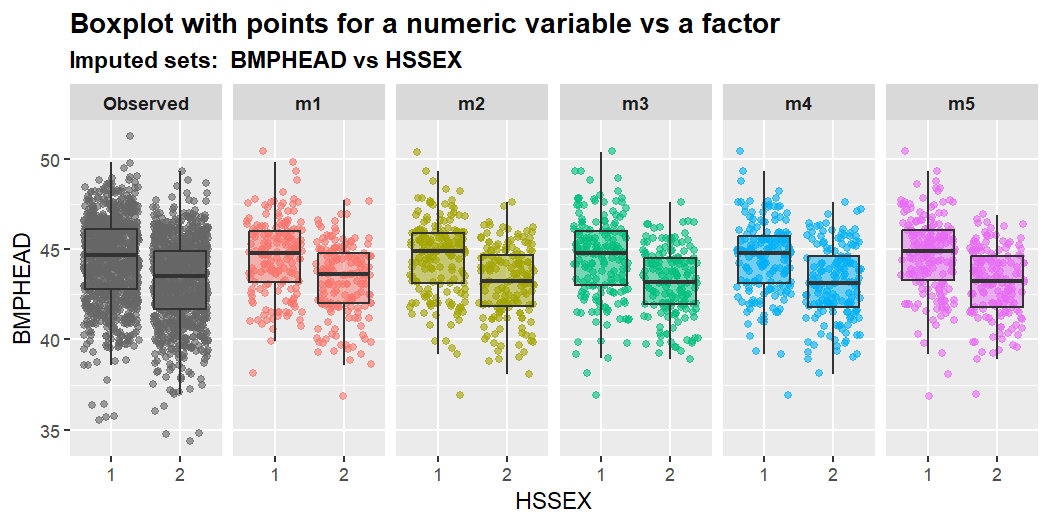
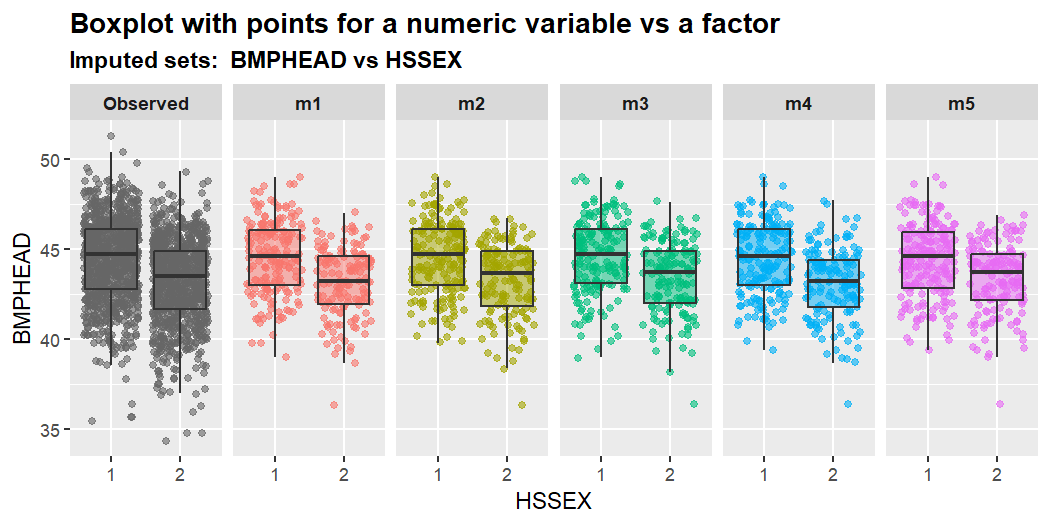
descritpion
add doi url

diff --git a/README.md b/README.md
@@ -17,7 +17,8 @@ imputation that utilizes XGBoost, subsampling and predictive mean
 matching. We have shown that our framework obtains less biased estimates
 and reflects appropriate imputation variability, while achieving high
 computational efficiency. For further information, please refer to our
-paper <https://arxiv.org/abs/2106.01574>.
+paper [Multiple Imputation Through
+XGBoost](https://www.tandfonline.com/doi/full/10.1080/10618600.2023.2252501).
 
 ## New updates
 
@@ -227,9 +228,9 @@ params <- list(max_depth = 3, subsample = 0.7, nthread = 2)
 cv.results <- mixgb_cv(data = nhanes3_newborn, nrounds = 100,
     xgb.params = params, verbose = FALSE)
 cv.results$response
-#> [1] "BMPWT"
+#> [1] "BMPSB2"
 cv.results$best.nrounds
-#> [1] 18
+#> [1] 16
 ```
 
 By default, `mixgb_cv()` will randomly choose an incomplete variable as
@@ -246,7 +247,7 @@ cv.results <- mixgb_cv(data = nhanes3_newborn, nfold = 10, nrounds = 100,
         "BMPTR1", "BMPTR2", "BMPWT"), xgb.params = params, verbose = FALSE)
 
 cv.results$best.nrounds
-#> [1] 22
+#> [1] 19
 ```
 
 Let us just try setting `nrounds = cv.results$best.nrounds` in `mixgb()`
@@ -313,26 +314,26 @@ specified variable.
 show_var(imputation.list = imputed.data, var.name = "BMPHEAD",
     original.data = withNA.df)
 #>        m1   m2   m3   m4   m5
-#>   1: 44.6 41.9 42.0 40.2 43.5
-#>   2: 47.6 46.0 44.7 44.1 45.8
-#>   3: 42.2 44.0 41.9 43.2 42.8
-#>   4: 43.8 45.9 46.7 46.7 45.2
-#>   5: 44.7 42.0 42.6 44.2 42.5
+#>   1: 42.8 43.0 43.2 42.0 43.5
+#>   2: 47.0 45.1 45.5 43.2 43.8
+#>   3: 43.2 44.6 42.9 42.3 44.2
+#>   4: 42.8 42.2 43.2 41.8 42.0
+#>   5: 46.2 45.1 46.1 45.7 45.4
 #>  ---                         
-#> 120: 46.7 44.6 43.8 45.3 47.2
-#> 121: 44.4 45.3 45.6 44.6 43.8
-#> 122: 41.8 42.0 42.4 40.8 40.8
-#> 123: 43.6 45.1 42.9 45.2 45.8
-#> 124: 46.6 44.4 44.8 45.0 43.9
+#> 120: 45.6 46.6 47.0 45.9 45.8
+#> 121: 43.8 44.8 45.8 45.2 44.3
+#> 122: 42.6 41.7 41.0 41.6 41.6
+#> 123: 44.6 44.4 43.8 45.7 44.9
+#> 124: 45.1 43.3 44.0 42.7 43.9
 show_var(imputation.list = imputed.data, var.name = "HFF1", original.data = withNA.df)
 #>    m1 m2 m3 m4 m5
 #> 1:  2  2  2  2  2
-#> 2:  2  2  2  2  2
-#> 3:  2  2  2  2  2
-#> 4:  2  2  2  2  2
-#> 5:  2  1  1  2  1
-#> 6:  2  2  2  2  1
-#> 7:  2  2  2  1  1
+#> 2:  1  1  2  1  1
+#> 3:  2  2  2  1  2
+#> 4:  1  1  1  1  1
+#> 5:  1  1  1  1  1
+#> 6:  1  1  2  1  1
+#> 7:  2  2  1  1  2
 ```
 
 The `mixgb` package provides the following visual diagnostics functions:

diff --git a/NEWS.md b/NEWS.md
@@ -1,3 +1,6 @@
+# mixgb 1.2.1
+* Added url of the published article 
+
 # mixgb 1.2.0
 * Added feature
 - Support logical variable without the need to convert it to factor. 
